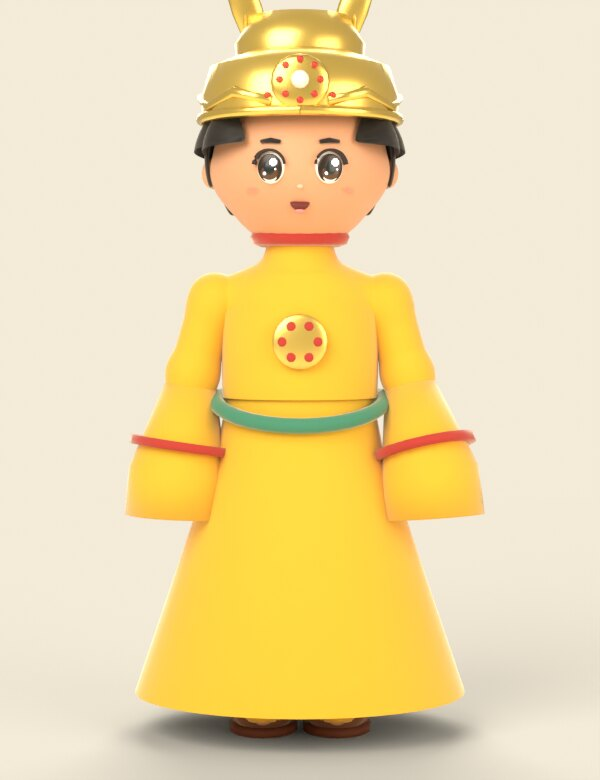
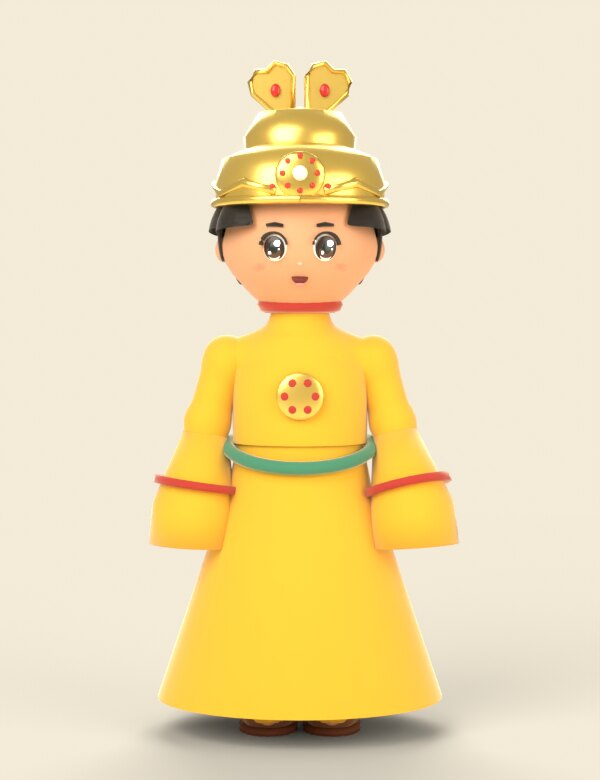
the king's mũ xung thiên: two flat fan-shaped wings with a ruby, opening in a V above the crown (rounded ones read as rabbit ears), in Blender and in the game; costume pictures frame a tall hat
Claude-Session: https://claude.ai/code/session_01Gw2TZtBZSLYqCWDdX7dMeZ

Changed region(s): [[0.21, 0.0, 0.81, 0.9846]]

diff --git a/js/film-costume.ts b/js/film-costume.ts
@@ -23,6 +23,9 @@ const brown = (c: string) => BROWNS[[...String(c)].reduce((a, ch) => a + ch.char
 const bare = (L: Look) => !L.hat || L.hat === 'none';
 
 // ---------- pieces worn on the head (the head's own units: a ball of radius .5, the face towards +z) ----------
+// a crown wing's outline (the Blender kit's WING, in head units: the head's radius is .5), base at 0, a thin plate
+const WING = () => { const o = [[-.07, 0], [.07, 0], [.3, .5], [.27, .66], [.14, .76], [0, .7], [-.14, .76], [-.27, .66], [-.3, .5]].map(([x, y]) => new THREE.Vector2(x * .5, y * .5));
+  return new THREE.ExtrudeGeometry(new THREE.Shape(o), { depth: .02, bevelEnabled: false }); };
 const KHAN = () => [P(Sph(.6, 20, 12, H + .95, PI * 2 - 1.9, 0, PI * .72), C.khan, [0, .02, -.02]), P(Sph(.6, 20, 6, 0, PI * 2, 0, PI * .26), C.khan, [0, .02, -.02]), P(Cone(.16, .3, 4), C.khan, [0, .46, .44], [H + .5, 0, 0], [1, 1, .35])];
 const HEAD: Record<string, (L: Look) => Part[]> = {
   // khăn mỏ quạ: a dark cloth over the head and down the cheeks, its front edge pinched to a crow's-beak point
@@ -38,7 +41,9 @@ const HEAD: Record<string, (L: Look) => Part[]> = {
   // mũ xung thiên: the king's gold cap of the old tales, a high crown at the back, two gold wings standing up behind it,
   // a sun with a pearl in front and dragons along the band (owner, 6 Nov 2026 AEDT: as in the Vietnamese fairy-tale films)
   xungthien: () => [P(Cyl(.5, .53, .32, 24), C.gold, [0, .32, 0]), P(Tor(.52, .03), '#f2d16b', [0, .18, 0], [H, 0, 0]), P(Sph(.36, 16, 10), C.gold, [0, .56, -.16], [0, 0, 0], [1, 1.2, .8]),
-    P(Cyl(.17, .17, .02, 18), '#f2d16b', [.28, .9, -.36], [-.35, 0, H + .12], [1, 1, 1.5]), P(Cyl(.17, .17, .02, 18), '#f2d16b', [-.28, .9, -.36], [-.35, 0, H - .12], [1, 1, 1.5]),
+    // the two wings standing up behind (owner, 6 Nov 2026 AEDT: rounded wings read as rabbit ears): flat fan-shaped gold
+    // plates, narrow where they meet behind the crown and wide at the top, a ruby in each, the pair opening in a V
+    ...[1, -1].flatMap(s => [P(WING(), '#f2d16b', [s * .08, .74, -.36], [0, 0, -s * .42], [1.5, 1.5, 1]), P(Sph(.05, 8, 6), '#c62f2f', [s * .08 + s * .32 * Math.sin(.42), .74 + .32 * Math.cos(.42), -.33], [0, 0, 0], [1, 1.3, .5])]),
     P(Cyl(.13, .13, .02, 18), '#f2d16b', [0, .32, .52], [H, 0, 0]), P(Sph(.05, 8, 6), '#f6f1ea', [0, .32, .54]),
     P(Tor(.2, .025, PI * .8), '#f2d16b', [.3, .25, .42], [0, -.6, 0]), P(Tor(.2, .025, PI * .8), '#f2d16b', [-.3, .25, .42], [0, .6, PI])],
   // kim quan: a prince's small gold crown over the topknot, a gold pin through it and a red jewel

diff --git a/tools/blender/costumes.py b/tools/blender/costumes.py
@@ -130,6 +130,19 @@ def kit_hair(name, A, Bm):
     else:
         style(VSTYLE.get(name, name), A, Bm)
 
+WING = [(-.07, 0), (.07, 0), (.3, .5), (.27, .66), (.14, .76), (0, .7), (-.14, .76), (-.27, .66), (-.3, .5)]   # a crown wing's outline, base at 0
+
+def kit_plate(name, m, rim, jewel, base, tilt, thick=.03):
+    """a crown wing: the WING outline (head units) as a flat plate facing the front, tilted out by tilt (radians, about the
+    view axis) at base, with a rim tube and a jewel in the middle"""
+    rot = Matrix.Rotation(tilt, 3, 'Y'); P3 = lambda x, z, y=0.0: base + rot @ (Vector((x, y, z)) * R)
+    bm = bmesh.new(); f = [bm.verts.new(P3(x, z, -thick)) for x, z in WING]; b = [bm.verts.new(P3(x, z, thick)) for x, z in WING]
+    bm.faces.new(f); bm.faces.new(b[::-1]); n = len(WING)
+    for k in range(n): bm.faces.new((f[k], f[(k + 1) % n], b[(k + 1) % n], b[k]))
+    obj_from(bm, name, m, False)
+    tube(name, rim, [P3(x * 1.0, z, -thick * 1.4) for x, z in WING + WING[:1]], .035 * R, 8, False)
+    sphere(name, jewel, P3(0, .42, -thick * 2.2), (.07 * R, .03 * R, .09 * R), 12, 6)
+
 def kit_hat(kind, col=None):
     """the kit's headwear, in head units (H): the front of the face is -y. Wraps are named hatBand so they keep their place (no settling)."""
     M = felt('kithat' + kind + (col or ''), col or '#2b2422', .85, .08)
@@ -169,9 +182,10 @@ def kit_hat(kind, col=None):
         lathe('hatCrown', GOLD, [(1.1 * R, .15 * R), (1.12 * R, .45 * R), (1.02 * R, .78 * R), (.6 * R, .95 * R), (0, .98 * R)], 40, loc=HC)
         tube('hatBand', GOLDL, ring_(.2, 1.12, 1.1), .06 * R, 8, False)
         c = lathe('hatBand', GOLD, [(.0, .6 * R), (.7 * R, .62 * R), (.75 * R, 1.1 * R), (.55 * R, 1.42 * R), (0, 1.5 * R)], 32, loc=HC + Vector((0, .35 * R, 0)))   # the high back crown
-        for s in (-1, 1):   # the two wings standing up behind
-            # (owner, 6 Nov 2026 AEDT: they looked like rabbit ears) flat, tall wing plates with a gold rim, leaning out a little
-            w = sphere('hatBand', GOLDL, H(s * .55, .8, 1.35), (.03 * R, .34 * R, .52 * R), 24, 12, (-.35, 0, s * .12))   # a blade seen from the front, a wing from the side
+        for s in (-1, 1):   # the two wings standing up behind ("xung thiên", toward the sky)
+            # (owner, 6 Nov 2026 AEDT: rounded wings read as rabbit ears) flat fan-shaped gold plates, narrow where they meet behind
+            # the crown and wide at the top, a light gold rim and a ruby, their face to the front, the pair opening in a V
+            kit_plate('hatBand', GOLD, GOLDL, RED, H(s * .16, .72, 1.38), s * .42)
         sphere('hatBand', GOLDL, H(0, -1.1, .5), (.32 * R, .06 * R, .3 * R), 20, 10)   # the sun plate in front
         sphere('hatBand', PEARL, H(0, -1.16, .52), (.1 * R,) * 3, 12, 6)
         for k in range(8): a = k * math.pi / 4; sphere('hatBand', RED, H(math.cos(a) * .22, -1.15, .52 + math.sin(a) * .22), (.04 * R,) * 3, 8, 4)

diff --git a/tools/blender/lumi.py b/tools/blender/lumi.py
@@ -672,7 +672,9 @@ def shoot(name, az, height, dist, look, res):
 
 show_face('smile')
 bpy.ops.wm.save_as_mainfile(filepath=os.path.join(OUT, f'{TAG}-{STYLE}.blend'))
-top = HC.z + R * 1.3; mid = top * .5; dist = top * .5 / math.tan(math.radians(12)) * 1.15
+top = HC.z + R * 1.3   # the top of the frame: over the head, or over a tall hat (a king's crown wings)
+top = max([top] + [(o.matrix_world @ Vector(c)).z + .08 * R for o in bpy.context.scene.objects if o.type == 'MESH' and not o.hide_render and o.name.startswith('hat') for c in o.bound_box])
+mid = top * .5; dist = top * .5 / math.tan(math.radians(12)) * 1.15
 if RENDER:
     VIEWS = next((a[6:].split(',') for a in argv if a.startswith('views=')), None)   # views=front,three-quarter: only those
     for name, az in (('front', 0), ('side', math.pi / 2), ('back', math.pi), ('three-quarter', .6)):

diff --git a/docs/characters-v108/costumes/README.md b/docs/characters-v108/costumes/README.md
@@ -4,7 +4,7 @@ The period outfits, hair and headwear of the old tales, made once in Blender by 
 
 Make the pictures again: `blender -b -P tools/blender/costumes.py -- docs/characters-v108/costumes` (all, about 6 minutes each) or name some ids; `quick` for a fast look.
 
-Owner's corrections (6 Nov 2026 AEDT, like the costumes of the Vietnamese fairy-tale films on YouTube): soldiers wear the nón dấu with its red top, not a helmet; the king wears the gold mũ xung thiên and a prince the gold kim quan; the village girl's khăn mỏ quạ has no ties under the chin (they looked like a beard), and she wears the nón quai thao with its long straps and gold tassels.
+Owner's corrections (6 Nov 2026 AEDT, like the costumes of the Vietnamese fairy-tale films on YouTube): soldiers wear the nón dấu with its red top, not a helmet; the king wears the gold mũ xung thiên (its two wings are flat fan-shaped plates with a ruby, opening in a V above the crown: rounded wings read as rabbit ears) and a prince the gold kim quan; the village girl's khăn mỏ quạ has no ties under the chin (they looked like a beard), and she wears the nón quai thao with its long straps and gold tassels.
 
 Rules kept: the four friends never wear these and never appear inside a tale (check `talecostume`); the First Nations stories keep their animals as themselves, in the agreed art style.
 
